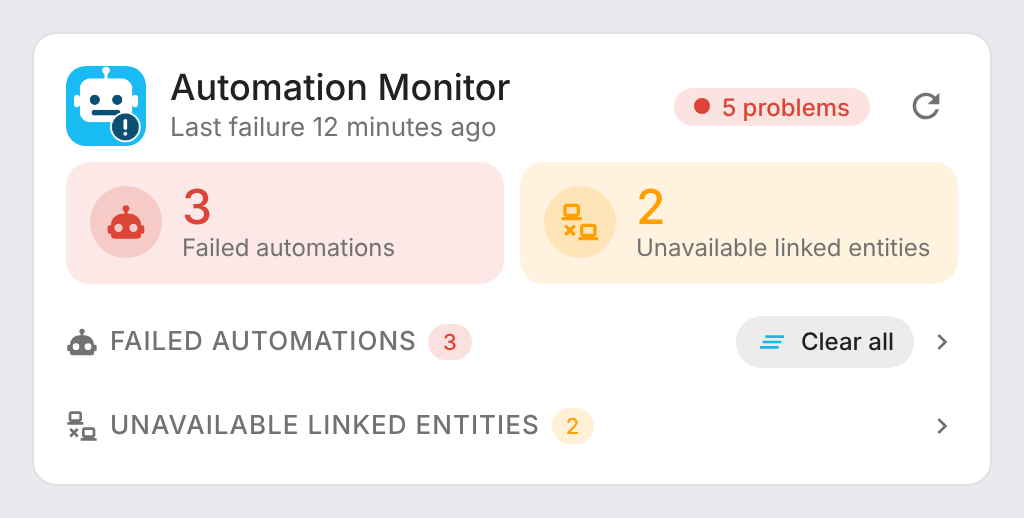
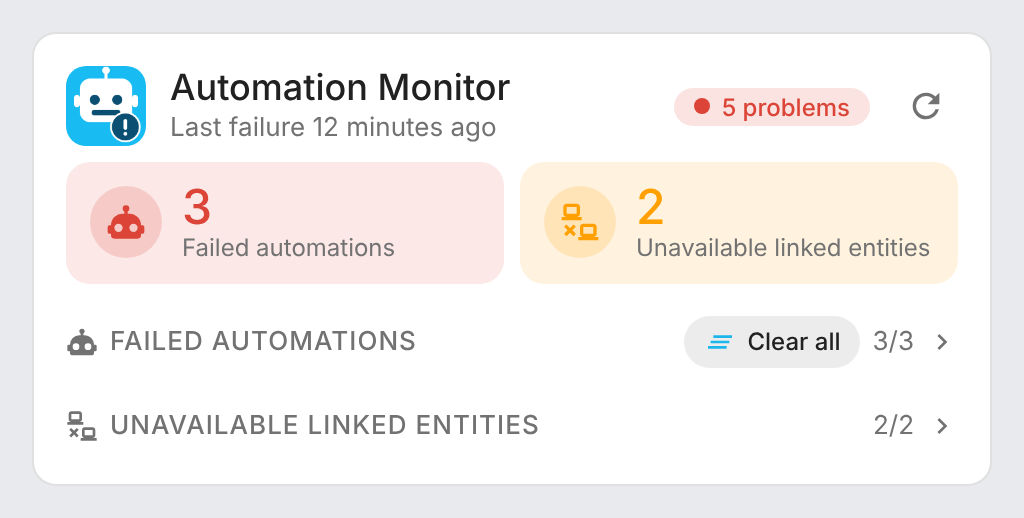
Release 1.4.1
Section titles: shown/total counter next to the chevron, as in the
Dockhand card, instead of the colored badge.

Claude-Session: https://claude.ai/code/session_01T5gSvjcJk5PoeZQS3nFHLH

diff --git a/dist/automation-monitor-card.js b/dist/automation-monitor-card.js
@@ -7,7 +7,7 @@
  * translation_key), so the cards work whatever the Home Assistant language or entity ids.
  */
 
-const VERSION = "1.4.0";
+const VERSION = "1.4.1";
[1 lines of base64/hex data omitted]
 const INTEGRATION_SITE = "https://github.com/olli-dot-dev/ha-automation-monitor";
 const PLATFORM = "automation_monitor";
@@ -424,8 +424,7 @@ const FULL_STYLE = `
   .section-title { display: flex; align-items: center; gap: 6px; font-size: 13px; font-weight: 500; text-transform: uppercase;
                    letter-spacing: .04em; color: var(--secondary-text-color); margin-bottom: 8px; min-height: 26px; }
   .section-title .icon { width: 16px; height: 16px; }
-  .section-title .count { font-weight: 500; padding: 0 7px; border-radius: 10px; font-size: 11px; line-height: 18px;
-                          background: color-mix(in srgb, var(--c) 16%, transparent); color: var(--c); }
+  .section-title .count { text-transform: none; letter-spacing: 0; font-weight: 400; }
   .section-title .spacer { flex: 1; }
   .section-title .btn { text-transform: none; letter-spacing: 0; }
   .section-title.fold { cursor: pointer; user-select: none; }
@@ -515,12 +514,14 @@ class AutomationMonitorCard extends AutomationMonitorBase {
     return this._folds?.[key] ?? (this._config[`expand_${key}`] === true || this._config[`collapse_${key}`] === false);
   }
 
-  _section(key, icon, label, items, cls, renderItem, button) {
+  // Title: icon, label, actions, "shown/total" counter and chevron, as in the Dockhand card.
+  _section(key, icon, label, items, renderItem, button) {
     const open = this._isOpen(key);
+    const shown = this._expanded[key] ? items.length : Math.min(items.length, this._max());
     return `<div>
-      <div class="section-title fold ${open ? "" : "closed"}" data-action="fold" data-section="${key}">${svgIcon(icon)}<span>${esc(label)}</span><span class="count ${cls}">${
-      items.length
-    }</span><span class="spacer"></span>${button || ""}${svgIcon(ICONS.chevron_down, "chevron")}</div>
+      <div class="section-title fold ${open ? "" : "closed"}" data-action="fold" data-section="${key}">${svgIcon(icon)}<span>${esc(
+      label
+    )}</span><span class="spacer"></span>${button || ""}<span class="count">${shown}/${items.length}</span>${svgIcon(ICONS.chevron_down, "chevron")}</div>
       ${open ? this._list(key, items, renderItem) : ""}
     </div>`;
   }
@@ -533,7 +534,7 @@ class AutomationMonitorCard extends AutomationMonitorBase {
         : "";
     // Nothing to list: the counter above already says so.
     if (!data.failures.length) return "";
-    return this._section("failed", ICONS.robot_alert, this._t("failed_automations"), data.failures, "crit", (a) => this._failure(a, controls), button);
+    return this._section("failed", ICONS.robot_alert, this._t("failed_automations"), data.failures, (a) => this._failure(a, controls), button);
   }
 
   _failure(a, controls) {
@@ -569,7 +570,7 @@ class AutomationMonitorCard extends AutomationMonitorBase {
 
   _linkedSection(data) {
     if (!data.linked.length) return "";
-    return this._section("linked", ICONS.disconnect, this._t("linked_unavailable"), data.linked, "warn", (e) => this._linked(e));
+    return this._section("linked", ICONS.disconnect, this._t("linked_unavailable"), data.linked, (e) => this._linked(e));
   }
 
   _linked(e) {

diff --git a/src/automation-monitor-card.js b/src/automation-monitor-card.js
@@ -424,8 +424,7 @@ const FULL_STYLE = `
   .section-title { display: flex; align-items: center; gap: 6px; font-size: 13px; font-weight: 500; text-transform: uppercase;
                    letter-spacing: .04em; color: var(--secondary-text-color); margin-bottom: 8px; min-height: 26px; }
   .section-title .icon { width: 16px; height: 16px; }
-  .section-title .count { font-weight: 500; padding: 0 7px; border-radius: 10px; font-size: 11px; line-height: 18px;
-                          background: color-mix(in srgb, var(--c) 16%, transparent); color: var(--c); }
+  .section-title .count { text-transform: none; letter-spacing: 0; font-weight: 400; }
   .section-title .spacer { flex: 1; }
   .section-title .btn { text-transform: none; letter-spacing: 0; }
   .section-title.fold { cursor: pointer; user-select: none; }
@@ -515,12 +514,14 @@ class AutomationMonitorCard extends AutomationMonitorBase {
     return this._folds?.[key] ?? (this._config[`expand_${key}`] === true || this._config[`collapse_${key}`] === false);
   }
 
-  _section(key, icon, label, items, cls, renderItem, button) {
+  // Title: icon, label, actions, "shown/total" counter and chevron, as in the Dockhand card.
+  _section(key, icon, label, items, renderItem, button) {
     const open = this._isOpen(key);
+    const shown = this._expanded[key] ? items.length : Math.min(items.length, this._max());
     return `<div>
-      <div class="section-title fold ${open ? "" : "closed"}" data-action="fold" data-section="${key}">${svgIcon(icon)}<span>${esc(label)}</span><span class="count ${cls}">${
-      items.length
-    }</span><span class="spacer"></span>${button || ""}${svgIcon(ICONS.chevron_down, "chevron")}</div>
+      <div class="section-title fold ${open ? "" : "closed"}" data-action="fold" data-section="${key}">${svgIcon(icon)}<span>${esc(
+      label
+    )}</span><span class="spacer"></span>${button || ""}<span class="count">${shown}/${items.length}</span>${svgIcon(ICONS.chevron_down, "chevron")}</div>
       ${open ? this._list(key, items, renderItem) : ""}
     </div>`;
   }
@@ -533,7 +534,7 @@ class AutomationMonitorCard extends AutomationMonitorBase {
         : "";
     // Nothing to list: the counter above already says so.
     if (!data.failures.length) return "";
-    return this._section("failed", ICONS.robot_alert, this._t("failed_automations"), data.failures, "crit", (a) => this._failure(a, controls), button);
+    return this._section("failed", ICONS.robot_alert, this._t("failed_automations"), data.failures, (a) => this._failure(a, controls), button);
   }
 
   _failure(a, controls) {
@@ -569,7 +570,7 @@ class AutomationMonitorCard extends AutomationMonitorBase {
 
   _linkedSection(data) {
     if (!data.linked.length) return "";
-    return this._section("linked", ICONS.disconnect, this._t("linked_unavailable"), data.linked, "warn", (e) => this._linked(e));
+    return this._section("linked", ICONS.disconnect, this._t("linked_unavailable"), data.linked, (e) => this._linked(e));
   }
 
   _linked(e) {

diff --git a/CHANGELOG.md b/CHANGELOG.md
@@ -1,5 +1,11 @@
 # Changelog
 
+## 1.4.1
+
+### 💄 Style
+
+- Section titles show a "shown/total" counter next to the chevron (e.g. `3/3`, or `5/8` when the list is cut by `max_items`), as in the Dockhand card, instead of the colored badge.
+
 ## 1.4.0
 
 ### ✨ Features
